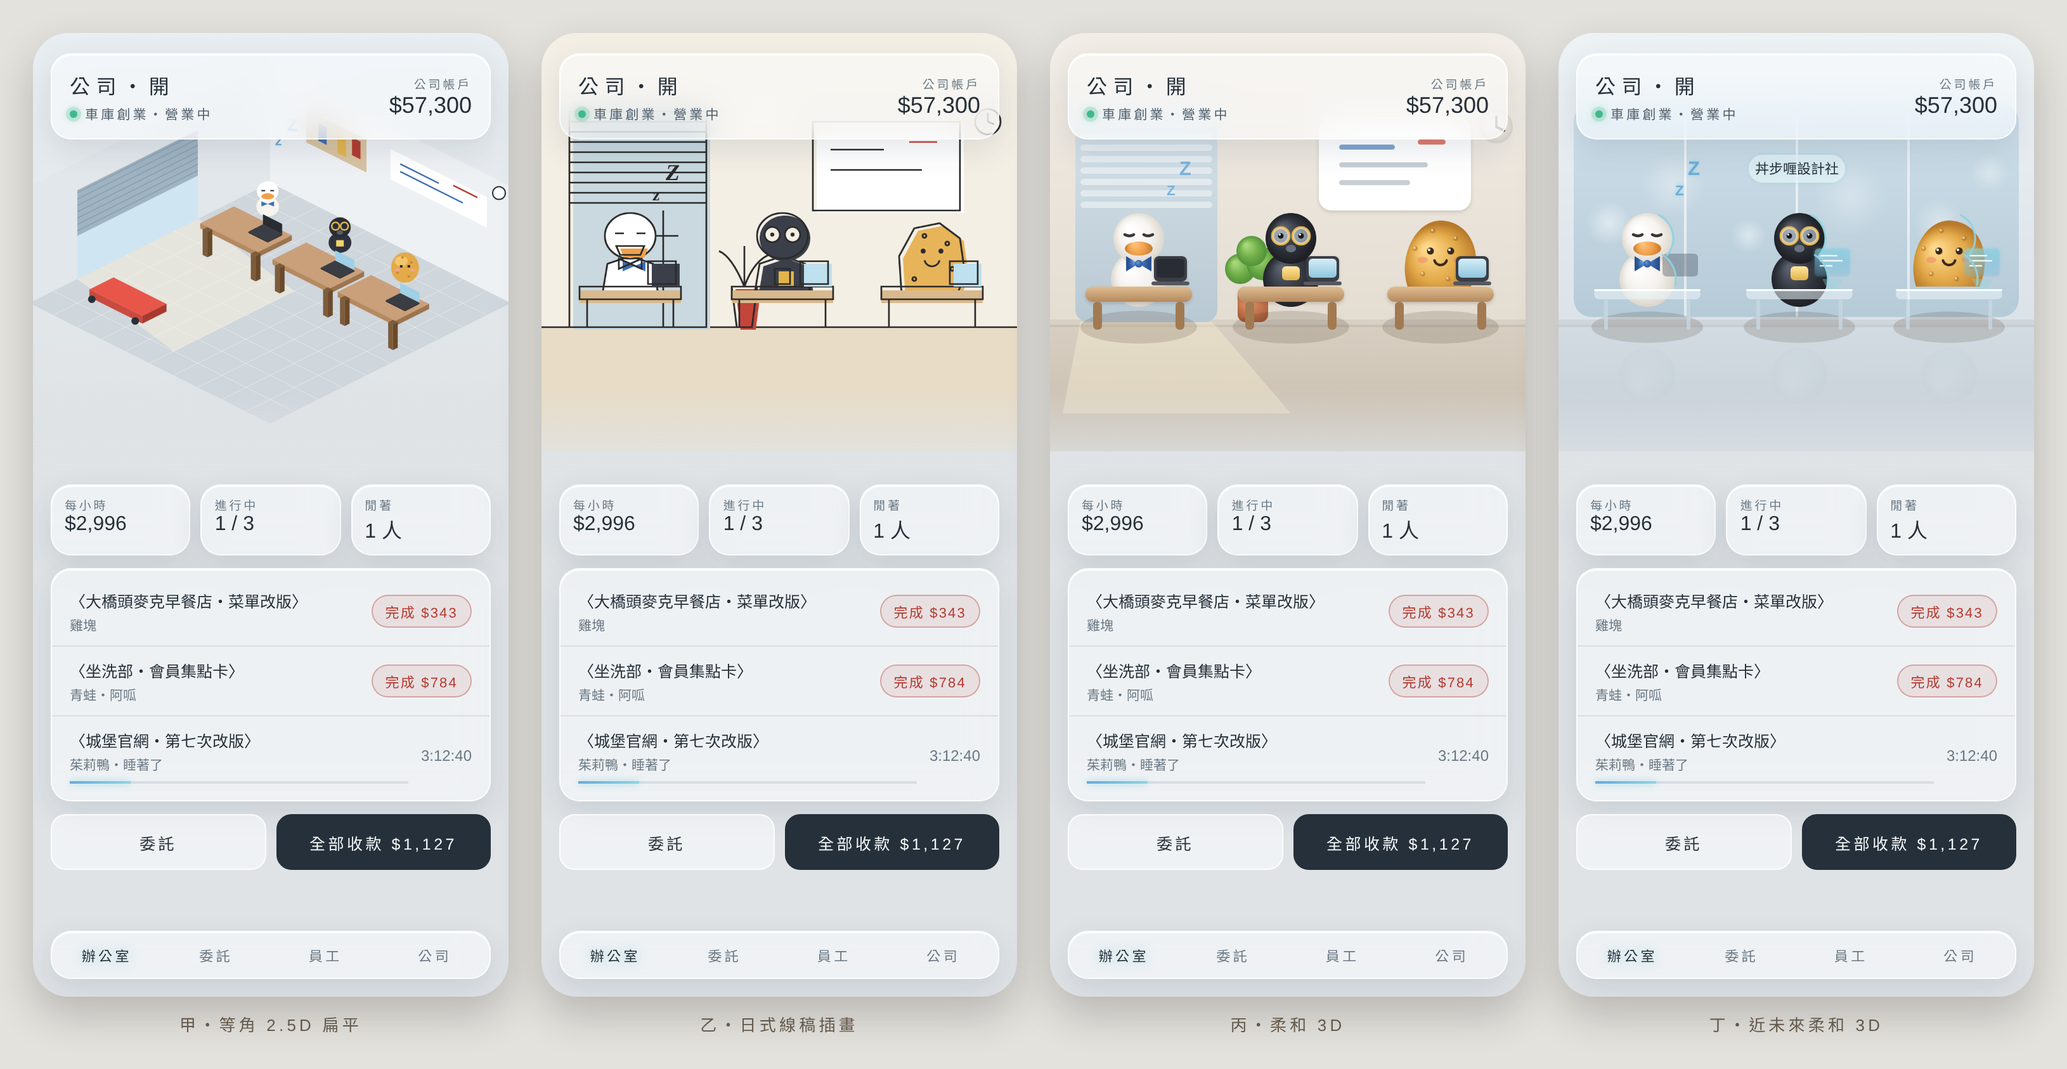
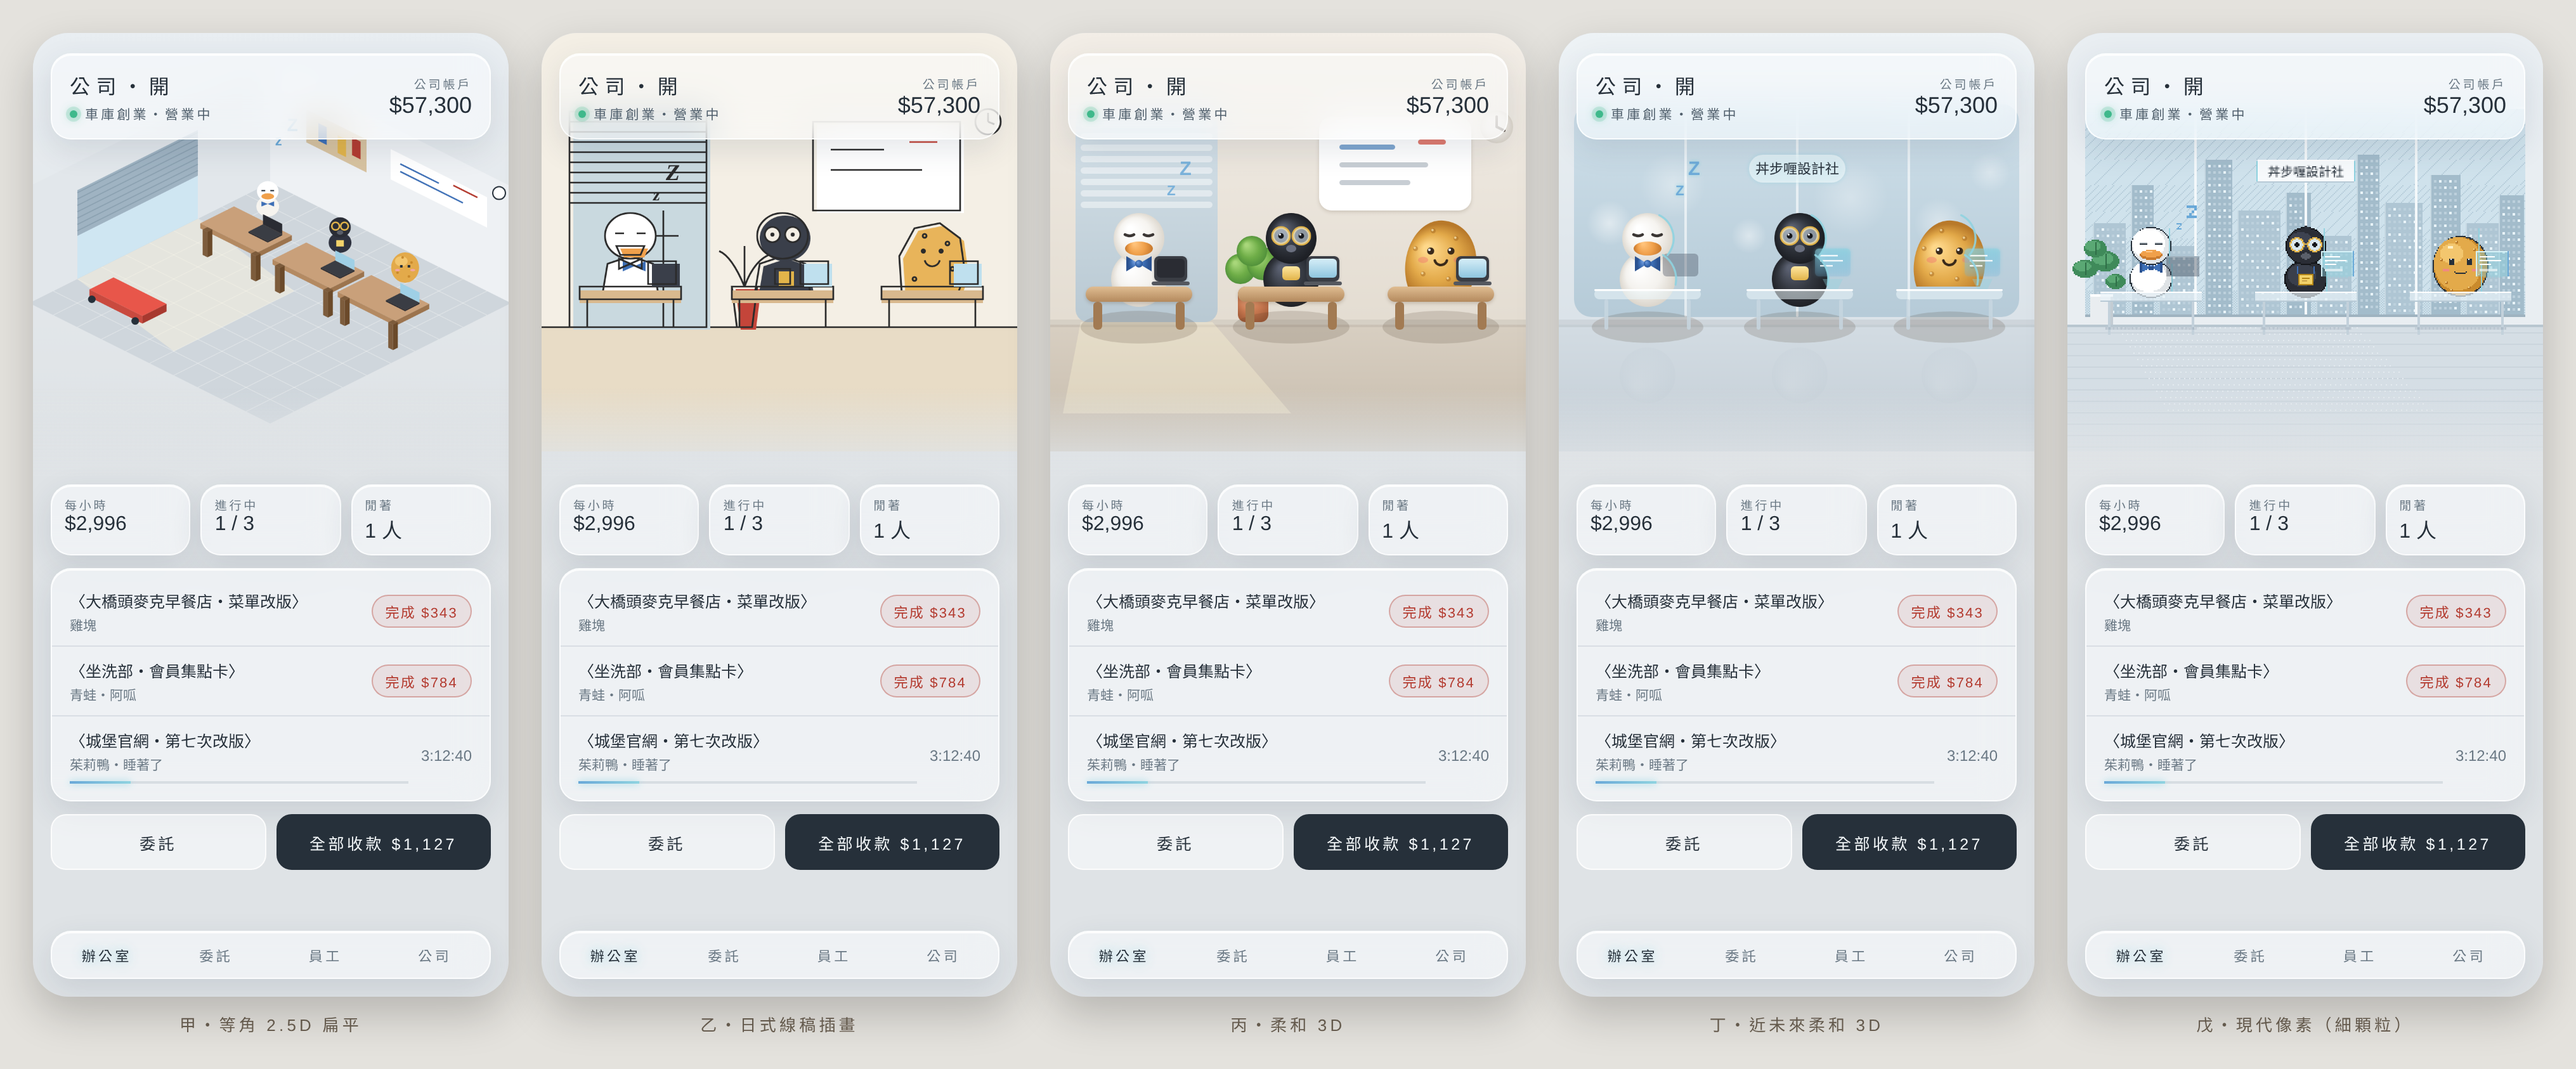
docs: company art style E (fine modern pixel)
Claude-Session: https://claude.ai/code/session_01DfELKGAuUeHGLNNJha5AAX

diff --git a/docs/plans/company/artstyle.html b/docs/plans/company/artstyle.html
@@ -7,7 +7,7 @@
      甲＝等角 2.5D 扁平、乙＝日式線稿插畫、丙＝柔和 3D（像會員頭像 avatar.js 那種圓潤漸層）。下面都套毛玻璃介面。 -->
 <style>
   body { margin: 0; background: #e4e2dd; font-family: 'Noto Sans TC', sans-serif; }
-  .wrap { display: grid; grid-template-columns: repeat(4, 375px); gap: 26px; padding: 26px; align-items: flex-start; width: max-content; }
+  .wrap { display: grid; grid-template-columns: repeat(5, 375px); gap: 26px; padding: 26px; align-items: flex-start; width: max-content; }
   .phone { width: 375px; height: 760px; border-radius: 28px; overflow: hidden; position: relative; box-shadow: 0 14px 34px rgba(0,0,0,.2); display: flex; flex-direction: column; background: #dfe3e6; color: #26303a; }
   .cap { text-align: center; font-size: 13px; letter-spacing: .2em; color: #6b6052; margin-top: 12px; }
   .num { font-variant-numeric: tabular-nums; }
@@ -210,6 +210,73 @@ stage('丁・近未來柔和 3D', x => {
   };
   who(70, 'julie'); who(190, 'xiaowu'); who(308, 'nugget');
   [[92, 128, 8], [102, 112, 11]].forEach(([a, b, r]) => { x.shadowColor = 'rgba(143,211,224,1)'; x.shadowBlur = 8; x.fillStyle = 'rgba(106,169,216,.95)'; x.font = `600 ${r * 1.4}px sans-serif`; x.fillText('Z', a, b); });
+});
+
+// ===================== 戊：現代像素（細顆粒） =====================
+// 使用者 2026-11-24：「多一個現代感像素風，顆粒細一點」。畫在 375×330 的小畫布（一顆＝1 個 CSS 像素，比原本細一倍半），
+// 再不平滑地放大貼上；冷色、乾淨，跟毛玻璃介面同一組顏色。光從左上，輪廓用深藍灰，右邊一圈青色邊光。
+stage('戊・現代像素（細顆粒）', X => {
+  const c = document.createElement('canvas'); c.width = W; c.height = H; const x = c.getContext('2d');
+  const R = (a, b, w, h, col) => { x.fillStyle = col; x.fillRect(Math.round(a), Math.round(b), Math.round(w), Math.round(h)); };
+  const el = (cx, cy, rx, ry, col) => { x.fillStyle = col; for (let j = Math.floor(cy - ry); j <= Math.ceil(cy + ry); j++) for (let i = Math.floor(cx - rx); i <= Math.ceil(cx + rx); i++) { const u = (i + .5 - cx) / rx, v = (j + .5 - cy) / ry; if (u * u + v * v <= 1) x.fillRect(i, j, 1, 1); } };
+  // 抖色漸層（像素風的漸層：兩色交錯）
+  const dith = (a, b, w, h, c1, c2, steps = 6) => { for (let k = 0; k < steps; k++) { const y0 = b + Math.round(h * k / steps), y1 = b + Math.round(h * (k + 1) / steps); R(a, y0, w, y1 - y0, c1); for (let j = y0; j < y1; j++) for (let i = a + (j % 2); i < a + w; i += 2) if ((i + j) % (steps - k + 1) === 0) R(i, j, 1, 1, c2); } };
+  const OL = '#26303a', CY = '#8fd3e0';
+  // 牆、落地窗、城市
+  R(0, 0, W, 230, '#e9eef2');
+  dith(14, 58, 347, 166, '#cfe2ec', '#b9cfdc', 8);
+  [[20, 150, 26], [50, 120, 18], [72, 168, 30], [108, 100, 22], [134, 140, 34], [172, 126, 20], [196, 160, 28], [228, 96, 18], [250, 134, 30], [286, 112, 24], [314, 150, 26], [340, 128, 20]].forEach(([a, b, w], k) => {
+    R(a, b, w, 224 - b, k % 2 ? '#a3bccb' : '#afc6d4'); R(a, b, 1, 224 - b, '#c7d9e3');
+    for (let j = b + 4; j < 220; j += 5) for (let i = a + 3; i < a + w - 2; i += 4) R(i, j, 2, 2, (i * 7 + j * 3) % 11 < 3 ? '#e8f3f8' : '#bcd0dc'); });
+  for (let i = 100; i < 361; i += 87) R(i, 58, 2, 166, '#f4f8fa'); R(14, 58, 347, 2, '#f4f8fa'); R(14, 222, 347, 2, '#9fb3c0');
+  // 發光的公司名牌
+  R(150, 100, 76, 18, '#f7fafc'); R(150, 100, 76, 1, '#ffffff'); R(150, 117, 76, 1, '#b8cad6'); R(149, 101, 1, 16, CY); R(226, 101, 1, 16, CY);
+  x.fillStyle = OL; x.font = '500 10px sans-serif'; x.textAlign = 'center'; x.fillText('丼步喱設計社', 188, 113); x.textAlign = 'left';
+  // 地板：亮面、細格線、窗光
+  R(0, 230, W, 100, '#d5dee5'); for (let j = 236; j < H; j += 9) R(0, j, W, 1, '#cbd5dd'); R(0, 230, W, 2, '#b8c6d0');
+  for (let j = 232; j < 300; j++) for (let i = 40 + (j - 232) * .6; i < 230 + (j - 232) * .9; i += 2) if ((i + j) % 4 === 0) R(i, j, 1, 1, '#e4ebf0');
+  // 盆栽（龜背芋）
+  R(18, 206, 18, 24, '#e9edf0'); R(18, 206, 18, 2, '#ffffff'); R(34, 208, 2, 22, '#c3ccd3');
+  [[14, 186, 10, 7], [30, 180, 11, 8], [22, 170, 9, 7], [38, 196, 8, 6]].forEach(([a, b, rx, ry]) => { el(a, b, rx, ry, '#3f8a5a'); el(a - 2, b - 2, rx - 3, ry - 3, '#5aa874'); R(a, b - ry + 2, 1, ry * 2 - 4, '#2f6e47'); });
+  // 角色（細顆粒）：一倍＝1 顆，大概 34 顆高
+  const who = (cx, k) => {
+    const by = 206;
+    if (k === 'julie') {
+      el(cx, by - 12, 17, 15, OL); el(cx, by - 12, 16, 14, '#dfe3e6'); el(cx - 2, by - 14, 14, 12, '#ffffff');
+      el(cx, by - 38, 16, 15, OL); el(cx, by - 38, 15, 14, '#e2e6e9'); el(cx - 2, by - 40, 13, 12, '#ffffff'); R(cx - 8, by - 47, 4, 2, '#ffffff');
+      R(cx - 9, by - 40, 6, 1, OL); R(cx + 3, by - 40, 6, 1, OL); R(cx - 9, by - 41, 6, 1, '#c9cfd4'); R(cx + 3, by - 41, 6, 1, '#c9cfd4');
+      el(cx, by - 31, 9, 4, '#c97a2e'); el(cx, by - 32, 8, 3, '#f0a04b'); R(cx - 4, by - 34, 5, 1, '#ffc98a');
+      [[-1, 1], [1, 1]].forEach(([s]) => { for (let i = 0; i < 7; i++) R(cx + s * (2 + i) - (s < 0 ? 1 : 0), by - 22 - Math.ceil(i / 2), 1, 2 + Math.ceil(i / 2) * 2, i > 4 ? '#2b5290' : '#3d6fb6'); });
+      R(cx - 2, by - 23, 4, 4, '#2b5290'); R(cx - 1, by - 23, 2, 1, '#7fa8e6');
+    }
+    if (k === 'xiaowu') {
+      el(cx, by - 12, 17, 15, '#14161a'); el(cx, by - 12, 16, 14, '#2a2d35'); el(cx - 3, by - 15, 11, 9, '#3a3f4b');
+      el(cx, by - 38, 16, 15, '#14161a'); el(cx, by - 38, 15, 14, '#2a2d35'); el(cx - 4, by - 42, 9, 7, '#3d4250'); R(cx - 1, by - 54, 2, 5, '#2a2d35'); R(cx + 1, by - 53, 2, 3, '#2a2d35');
+      [-7, 7].forEach(d => { el(cx + d, by - 39, 6, 6, '#e2b44a'); el(cx + d, by - 39, 4.6, 4.6, '#d8e7ef'); el(cx + d, by - 39, 2, 2, '#14161a'); R(cx + d - 2, by - 41, 1, 1, '#ffffff'); }); R(cx - 1, by - 40, 2, 1, '#e2b44a');
+      el(cx, by - 30, 4, 2.6, '#5a5f6a'); R(cx - 7, by - 22, 1, 6, '#3d6fb6'); R(cx + 6, by - 22, 1, 6, '#3d6fb6'); R(cx - 6, by - 16, 12, 9, '#b48618'); R(cx - 5, by - 15, 10, 7, '#f3d36a'); R(cx - 3, by - 13, 6, 1, '#b48618'); R(cx - 3, by - 11, 4, 1, '#c9a24a');
+    }
+    if (k === 'nugget') {
+      el(cx, by - 22, 22, 24, OL); el(cx, by - 22, 21, 23, '#c98a2c'); el(cx - 2, by - 24, 19, 21, '#e3aa4a'); el(cx - 7, by - 32, 9, 8, '#f3c66e'); R(cx - 10, by - 38, 4, 2, '#fff0c4');
+      [[-12, -10], [10, -36], [-4, -42], [14, -16], [-16, -28], [6, -6], [16, -30], [-8, -4]].forEach(([p, q]) => { R(cx + p, by + q, 2, 2, '#b8792a'); R(cx + p, by + q, 1, 1, '#f6d58a'); });
+      [-7, 7].forEach(d => { R(cx + d - 2, by - 28, 4, 5, OL); R(cx + d - 1, by - 28, 1, 1, '#ffffff'); }); R(cx - 14, by - 20, 5, 2, '#f08a80'); R(cx + 9, by - 20, 5, 2, '#f08a80');
+      R(cx - 4, by - 17, 8, 1, OL); R(cx - 5, by - 18, 1, 1, OL); R(cx + 4, by - 18, 1, 1, OL);
+    }
+    // 右邊一圈青色邊光
+    x.globalCompositeOperation = 'source-atop'; x.globalCompositeOperation = 'source-over';
+    for (let j = by - 52; j < by; j++) { const d = j < by - 24 ? 15 : 17; R(cx + d - 1, j, 1, 1, 'rgba(143,211,224,.9)'); }
+    // 玻璃桌：半透明＋白色亮邊；全息螢幕
+    R(cx - 40, by - 2, 80, 7, 'rgba(232,242,248,.7)'); R(cx - 40, by - 2, 80, 1, '#ffffff'); R(cx - 40, by + 5, 80, 1, '#b8cad6'); R(cx - 34, by + 6, 2, 26, '#c3d1db'); R(cx + 32, by + 6, 2, 26, '#c3d1db');
+    for (let i = cx - 36; i < cx + 36; i++) R(i, 232, 1, 2, (i % 3) ? 'rgba(80,100,120,.12)' : 'rgba(80,100,120,.2)');
+    if (k !== 'julie') { R(cx + 12, by - 34, 26, 20, 'rgba(143,211,224,.45)'); R(cx + 12, by - 34, 26, 1, '#d6f2f8'); R(cx + 12, by - 34, 1, 20, '#d6f2f8'); R(cx + 37, by - 34, 1, 20, '#6aa9d8');
+      R(cx + 15, by - 30, 12, 1, '#ffffff'); R(cx + 15, by - 27, 17, 1, '#ffffff'); R(cx + 15, by - 24, 9, 1, '#ffffff'); R(cx + 15, by - 20, 14, 2, 'rgba(255,255,255,.6)');
+      for (let j = by - 14; j < by - 2; j++) for (let i = cx + 16 + (j - by + 14) * .3; i < cx + 34 - (j - by + 14) * .3; i += 2) if ((i + j) % 2 === 0) R(i, j, 1, 1, 'rgba(143,211,224,.5)'); }
+    else { R(cx + 12, by - 30, 26, 16, 'rgba(60,70,85,.4)'); R(cx + 12, by - 30, 26, 1, '#9fb0bc'); }
+  };
+  who(66, 'julie'); who(188, 'xiaowu'); who(310, 'nugget');
+  // 睡覺的 Z（像素字）
+  const Zp = (a, b, s, col) => { R(a, b, 4 * s, s, col); R(a + 3 * s, b + s, s, s, col); R(a + 2 * s, b + 2 * s, s, s, col); R(a + s, b + 3 * s, s, s, col); R(a, b + 4 * s, 4 * s, s, col); };
+  Zp(86, 150, 1, '#6aa9d8'); Zp(94, 136, 2, '#6aa9d8');
+  X.imageSmoothingEnabled = false; X.drawImage(c, 0, 0, W, H);
 });
 </script>
 </body>

diff --git a/docs/plans/company/README.md b/docs/plans/company/README.md
@@ -29,7 +29,7 @@
 - 樣張 `staff.png`（`staff.html`）：應徵三位（特別人選是金框，右上角一顆金色星星圖示，名冊裡名字旁邊也有）、刷新 $500／幾小時後免費換、員工名冊和解雇確認、結案單（案子 − 薪水 ＝ 入帳、升級）、做砸了（只付三成、薪水扣一半）、八種一般員工的樣子。
 
 ## 已定
-- **介面風格要換**（2026-11-24 使用者：「有點復古了，我不要，我要現代日式＋科技感」）：**像素辦公室和角色保留，只換介面**（軟木板、紙條、木牌這些）。三種風格比較 `style.png`（`style.html`）：甲＝無印良品＋儀表板、乙＝近未來毛玻璃、丙＝和風終端機（車站告示）。**使用者選乙（近未來毛玻璃）**；接著問畫風能不能改，做畫風比較 `artstyle.png`（`artstyle.html`）：甲＝等角 2.5D 扁平、乙＝日式線稿插畫、丙＝柔和 3D（跟會員頭像一樣圓潤漸層）、丁＝近未來柔和 3D（使用者要「多一張符合介面的」：冷色落地窗、玻璃桌、全息螢幕、青色邊光），都套毛玻璃介面，等使用者挑。
+- **介面風格要換**（2026-11-24 使用者：「有點復古了，我不要，我要現代日式＋科技感」）：**像素辦公室和角色保留，只換介面**（軟木板、紙條、木牌這些）。三種風格比較 `style.png`（`style.html`）：甲＝無印良品＋儀表板、乙＝近未來毛玻璃、丙＝和風終端機（車站告示）。**使用者選乙（近未來毛玻璃）**；接著問畫風能不能改，做畫風比較 `artstyle.png`（`artstyle.html`）：甲＝等角 2.5D 扁平、乙＝日式線稿插畫、丙＝柔和 3D（跟會員頭像一樣圓潤漸層）、丁＝近未來柔和 3D（使用者要「多一張符合介面的」：冷色落地窗、玻璃桌、全息螢幕、青色邊光）、戊＝現代像素・細顆粒（使用者要「現代感像素風，顆粒細一點」：375×330 一顆一個 CSS 像素、冷色、抖色漸層、玻璃桌、全息螢幕、青色邊光），都套毛玻璃介面，等使用者挑。
 - 2026-11-24 第三輪：**規模乘 3**、**最短 3 分鐘**、**做砸了只付一成**（開工前看得到成功率）、**升級價錢照建議**、**中期目標先做第一批**（設備、系列案、員工圖鑑、公司榜）。數字見 `economy.md` 第二版。
 - **公司帳戶**（2026-11-24，使用者：「都要，執行長增資也要」）：**搬家升級只能用公司帳戶付**，還要「做完幾件案子」；結案的錢進公司帳戶，可以轉進錢包，錢包不能直接轉進公司。**錢包可以付**：聘人的簽約金、刷新應徵、員工訓練（花錢升級）、設備、打廣告（一段時間委託板多一張、特好賺比較常出現）、加班費（馬上做完一件）。**執行長增資**：每天可以從錢包轉一筆進公司帳戶，上限＝當階一天能賺的量（最多快一倍）。目的：打工賺很多的人有優勢（比較快、比較強），但不會第一天就跳到大樓。
 - 2026-11-24 第二輪：數字**先暫定** `economy.md` 那組；**公司名字最多 12 字**；入口**放在會員中心打工那一區**（甲）。

diff --git a/changelog/2026-11.md b/changelog/2026-11.md
@@ -1258,3 +1258,7 @@
 - 介面定了：乙（近未來毛玻璃）。
 - 畫風做了四種給你挑，都套毛玻璃介面（`docs/plans/company/artstyle.png`）：甲 等角 2.5D 扁平、乙 日式線稿插畫、丙 柔和 3D、丁 近未來柔和 3D（玻璃桌、全息螢幕，最配毛玻璃介面）。
 - 只是企劃，網站沒有變。
+
+## 2026-11-24 20:50（台灣）　開公司：多一種畫風「現代像素」
+- 畫風多了戊：現代感的像素風，顆粒比原本細一倍半，冷色落地窗、玻璃桌、發光的全息螢幕（`docs/plans/company/artstyle.png` 最右邊）。
+- 只是企劃，網站沒有變。
